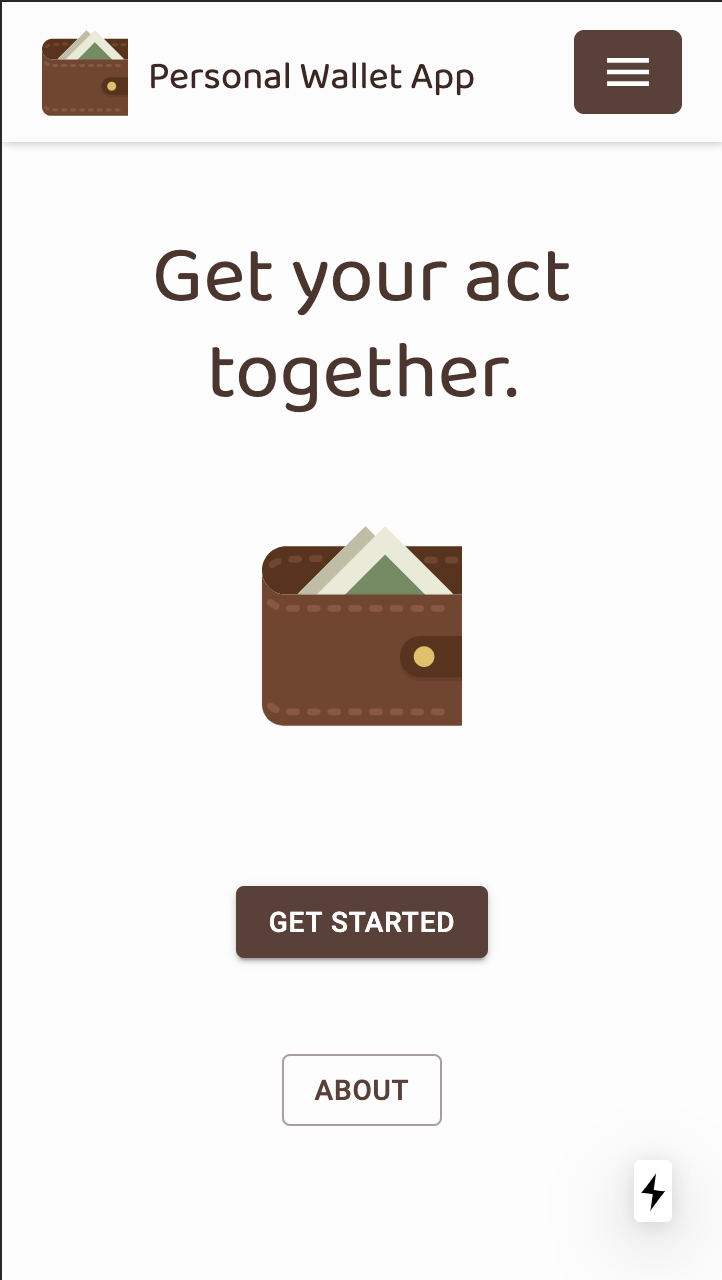
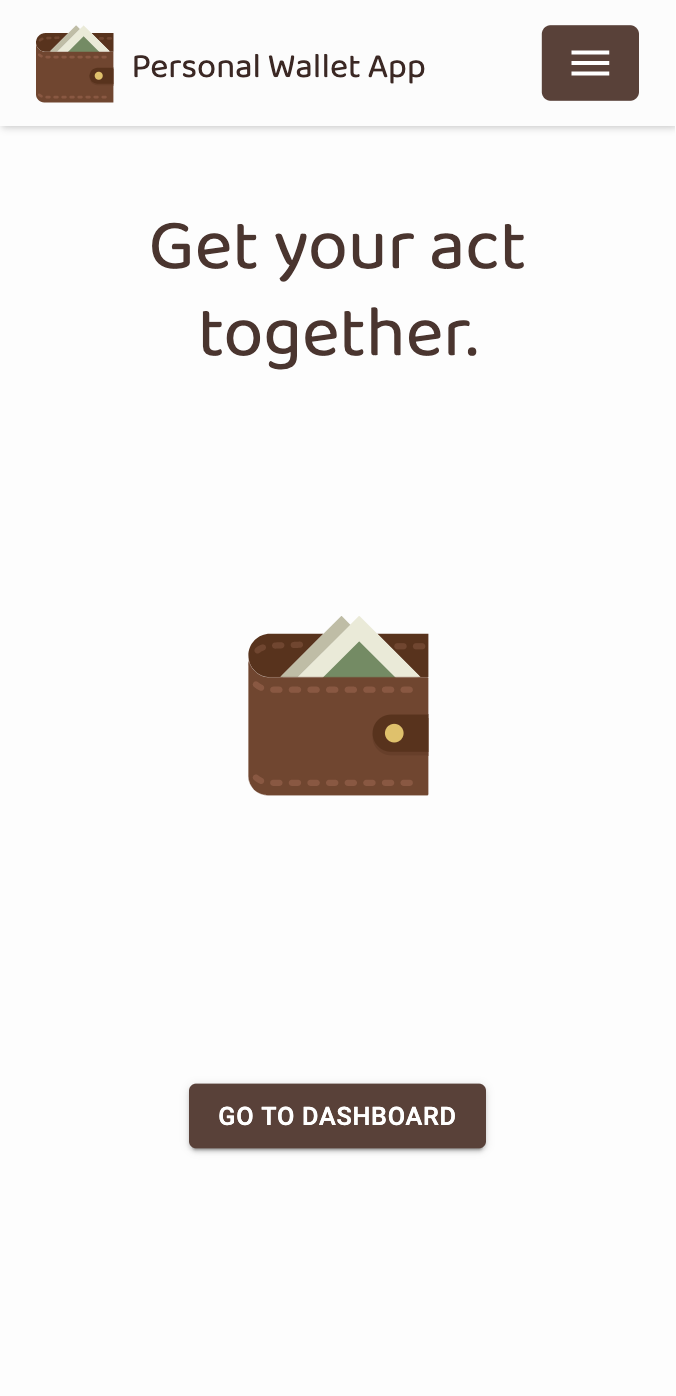
Add phone bg with loading screen

diff --git a/components/projects/phone/Phone.js b/components/projects/phone/Phone.js
@@ -6,17 +6,34 @@ const Phone = () => {
   const { selectedProject } = useContext(ProjectsContext);
 
   const showDetails = () => selectedProject && (
-    <div>
+    <div className="px-3">
       <h4>{selectedProject.title}</h4>
       <p>{selectedProject.description}</p>
       <Button color="primary" variant="outlined">View</Button>
     </div>
   )
 
+  const showPhoneBg = () =>  (
+    <div style={{position: 'absolute', top: 11, left: 0, zIndex: -2, padding: 7, width: '100%', height: '100%'}}>
+      {selectedProject ? (
+        <img style={{width: '100%'}} src={`/images${selectedProject.images[0]}`} alt={selectedProject.title} />
+      ) : (
+        <div className="d-flex justify-content-center align-items-center" style={{height: '80%'}}>
+          <img style={{width: 50}} src="/shapes/loading.svg" alt="loading"/>
+        </div>
+      )}
+    </div>
+  )
+
   return (
     <>
     <div className="d-flex justify-content-center">
-      <img style={{width: '250px'}} src="/shapes/iphonex.svg" alt="smartphone"/>
+      <div style={{width: '250px', position: 'relative'}}>
+        <a href={selectedProject && selectedProject.url} target="_blank">
+          <img style={{width: '100%'}} src="/shapes/iphonex.svg" alt="smartphone"/>
+          {showPhoneBg()}
+        </a>
+      </div>
     </div>
     <div className="d-flex justify-content-center text-center">
       {showDetails()}
